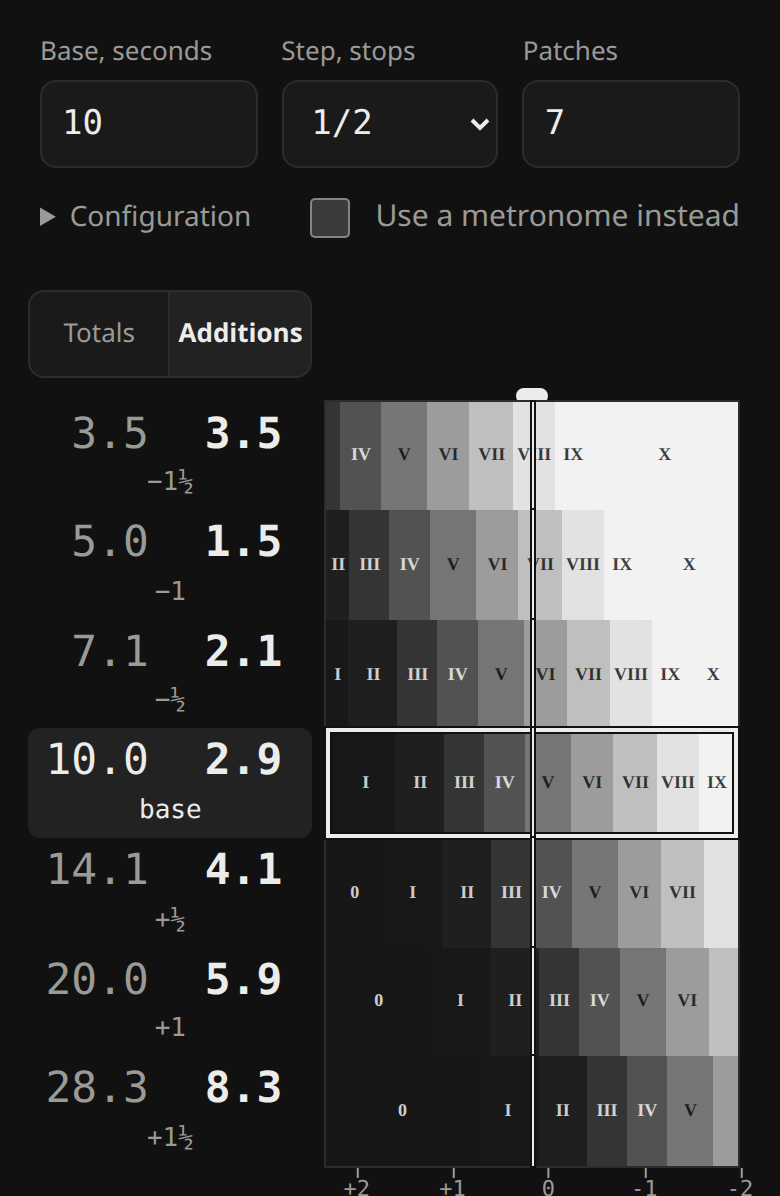
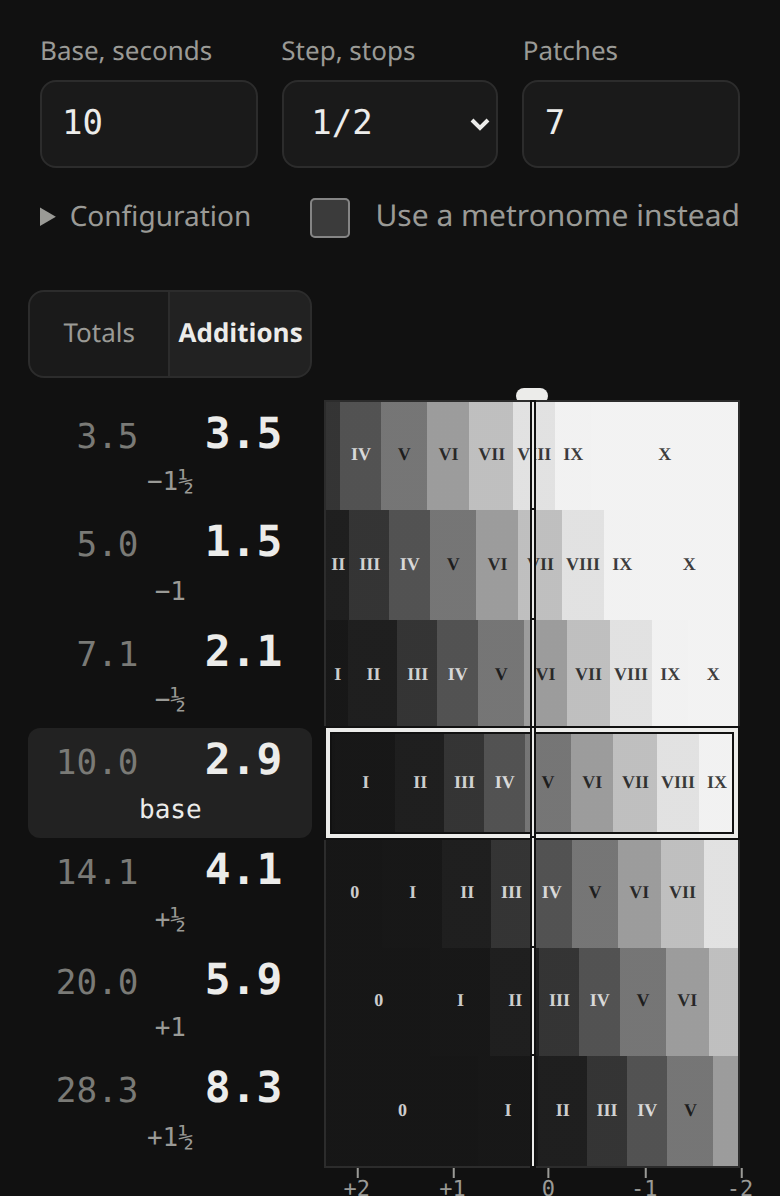
README and figures for the smaller column

diff --git a/README.md b/README.md
@@ -32,7 +32,7 @@ Let's say we have a fresh negative in the enlarger and our best guess is that it
 
 The map has one row for each patch, with two figures side by side. On the left is what the patch has had in all, 3.5, 5.0, 7.1, 10.0 and so on up to 28.3, which is how a strip is read afterwards: the patch that looks right is printed at its total. On the right is what the patch adds to the one before — 3.5 for the first, then 1.5, 2.1, 2.9 and so on — the way a strip is exposed with a card: give the whole strip 3.5 seconds, cover the first patch, give the rest 1.5 more, cover the next, and so on. Under them is where the patch sits in stops, from a stop and a half below the base to a stop and a half above. The base is the patch we believe in, marked with a tile round its figure and a box round its strip. It starts on the middle patch, so the others bracket it; tapping any patch, its figure or its strip, makes that one the base instead, and the others are drawn against it. On the first patch the strip only goes up from there.
 
-The switch over the figures, **Totals** or **Additions**, says which of the two a run in the darkroom gives each patch, and that column is in ink: totals for a strip exposed patch by patch in a holder with a window, additions for a strip covered as it goes. With a timer, either figure is all there is to it; more on the run below.
+The switch over the figures, **Totals** or **Additions**, says which of the two a run in the darkroom gives each patch, and that column is large and in ink: totals for a strip exposed patch by patch in a holder with a window, additions for a strip covered as it goes. With a timer, either figure is all there is to it; more on the run below.
 
 ### Reading the map
 The strips are a rough simulation of what the patches are going to look like, in the zones of the Zone System: 0 is full black, V is middle grey and X is paper white. The strips share one axis, the exposure in stops, and there is a scale of it under the map, zero at the base patch's middle grey and more exposure to the left. The base patch's strip shows the paper's zones at the filter chosen, each as wide as the exposure it spans — so a soft filter spreads them out and a hard one packs them together — and every other strip is the same scale shifted by that patch's exposure. A place across the map is one part of the picture. So we pick a tone in the base row, say a highlight in Zone VIII, and look straight up and down: the zone we find at that same place in another row is what that highlight prints as in that patch. Here it is a IX one patch lighter and paper white beyond that; one patch darker it is a VII, then a VI, and a V on the last patch.
